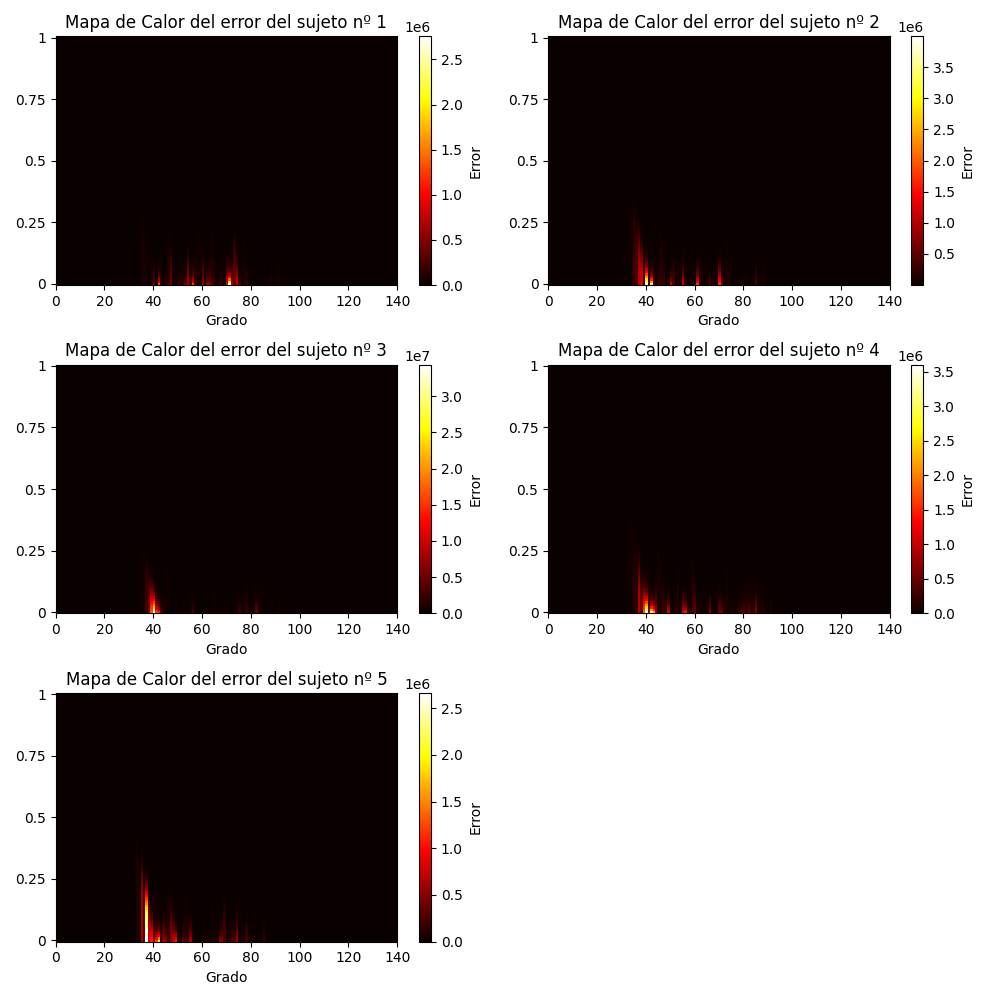
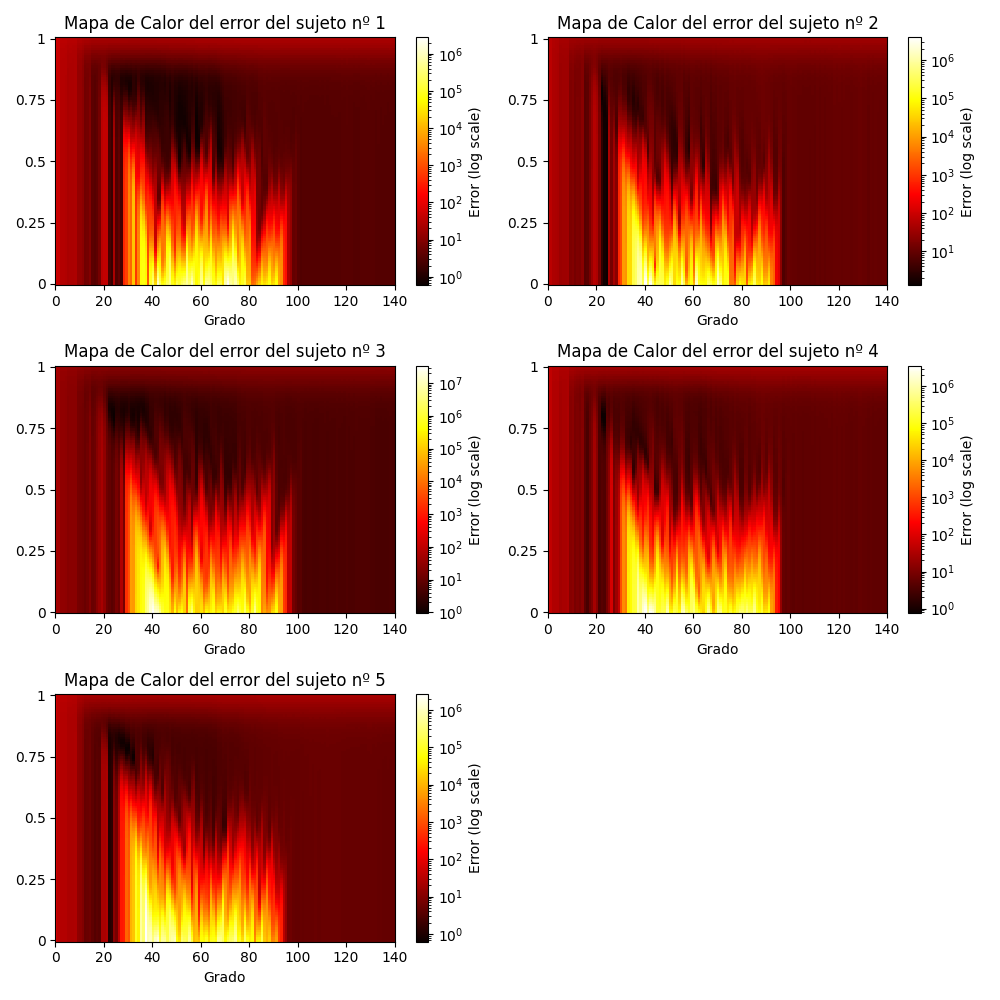
cambios
ola

diff --git a/tp3/experimentos.py b/tp3/experimentos.py
@@ -53,7 +53,7 @@ def explorar_en_sujeto(sujeto):
 
     g_opt = -1
     l_opt = -1
-    error = np.zeros((max_g, cant_l))
+    error = np.ones((cant_l, max_g))
     min_err = 1e8
 
     for g in grados:
